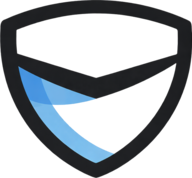
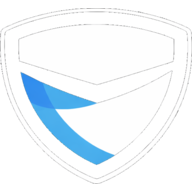
fix(pwa): improve splash screen appearance
- Update splash icons (192x192, 512x512) with transparent background (no white box)
- Lighten splash background to #52525b (zinc-600) for better light/dark compromise
- Icons now blend naturally with splash screen background

diff --git a/index.html b/index.html
@@ -57,14 +57,16 @@ SPDX-License-Identifier: AGPL-3.0-or-later
     <script>
       // Android PWAs don't reliably support media queries in theme-color
       // Update theme-color dynamically to match app background
-      (function() {
+      (function () {
         const updateThemeColor = (isDark) => {
-          const color = isDark ? '#18181b' : '#ffffff';
-          document.querySelector('meta[name="theme-color"]').setAttribute('content', color);
+          const color = isDark ? "#18181b" : "#ffffff";
+          document
+            .querySelector('meta[name="theme-color"]')
+            .setAttribute("content", color);
         };
-        const mq = window.matchMedia('(prefers-color-scheme: dark)');
+        const mq = window.matchMedia("(prefers-color-scheme: dark)");
         updateThemeColor(mq.matches);
-        mq.addEventListener('change', (e) => updateThemeColor(e.matches));
+        mq.addEventListener("change", (e) => updateThemeColor(e.matches));
       })();
     </script>
   </head>

diff --git a/vite.config.ts b/vite.config.ts
@@ -56,7 +56,7 @@ export default defineConfig(({ mode }) => {
           short_name: "SecPal",
           description: "Secure password management platform",
           theme_color: "#ffffff",
-          background_color: "#27272a",
+          background_color: "#52525b",
           display: "standalone",
           scope: "/",
           start_url: "/",
